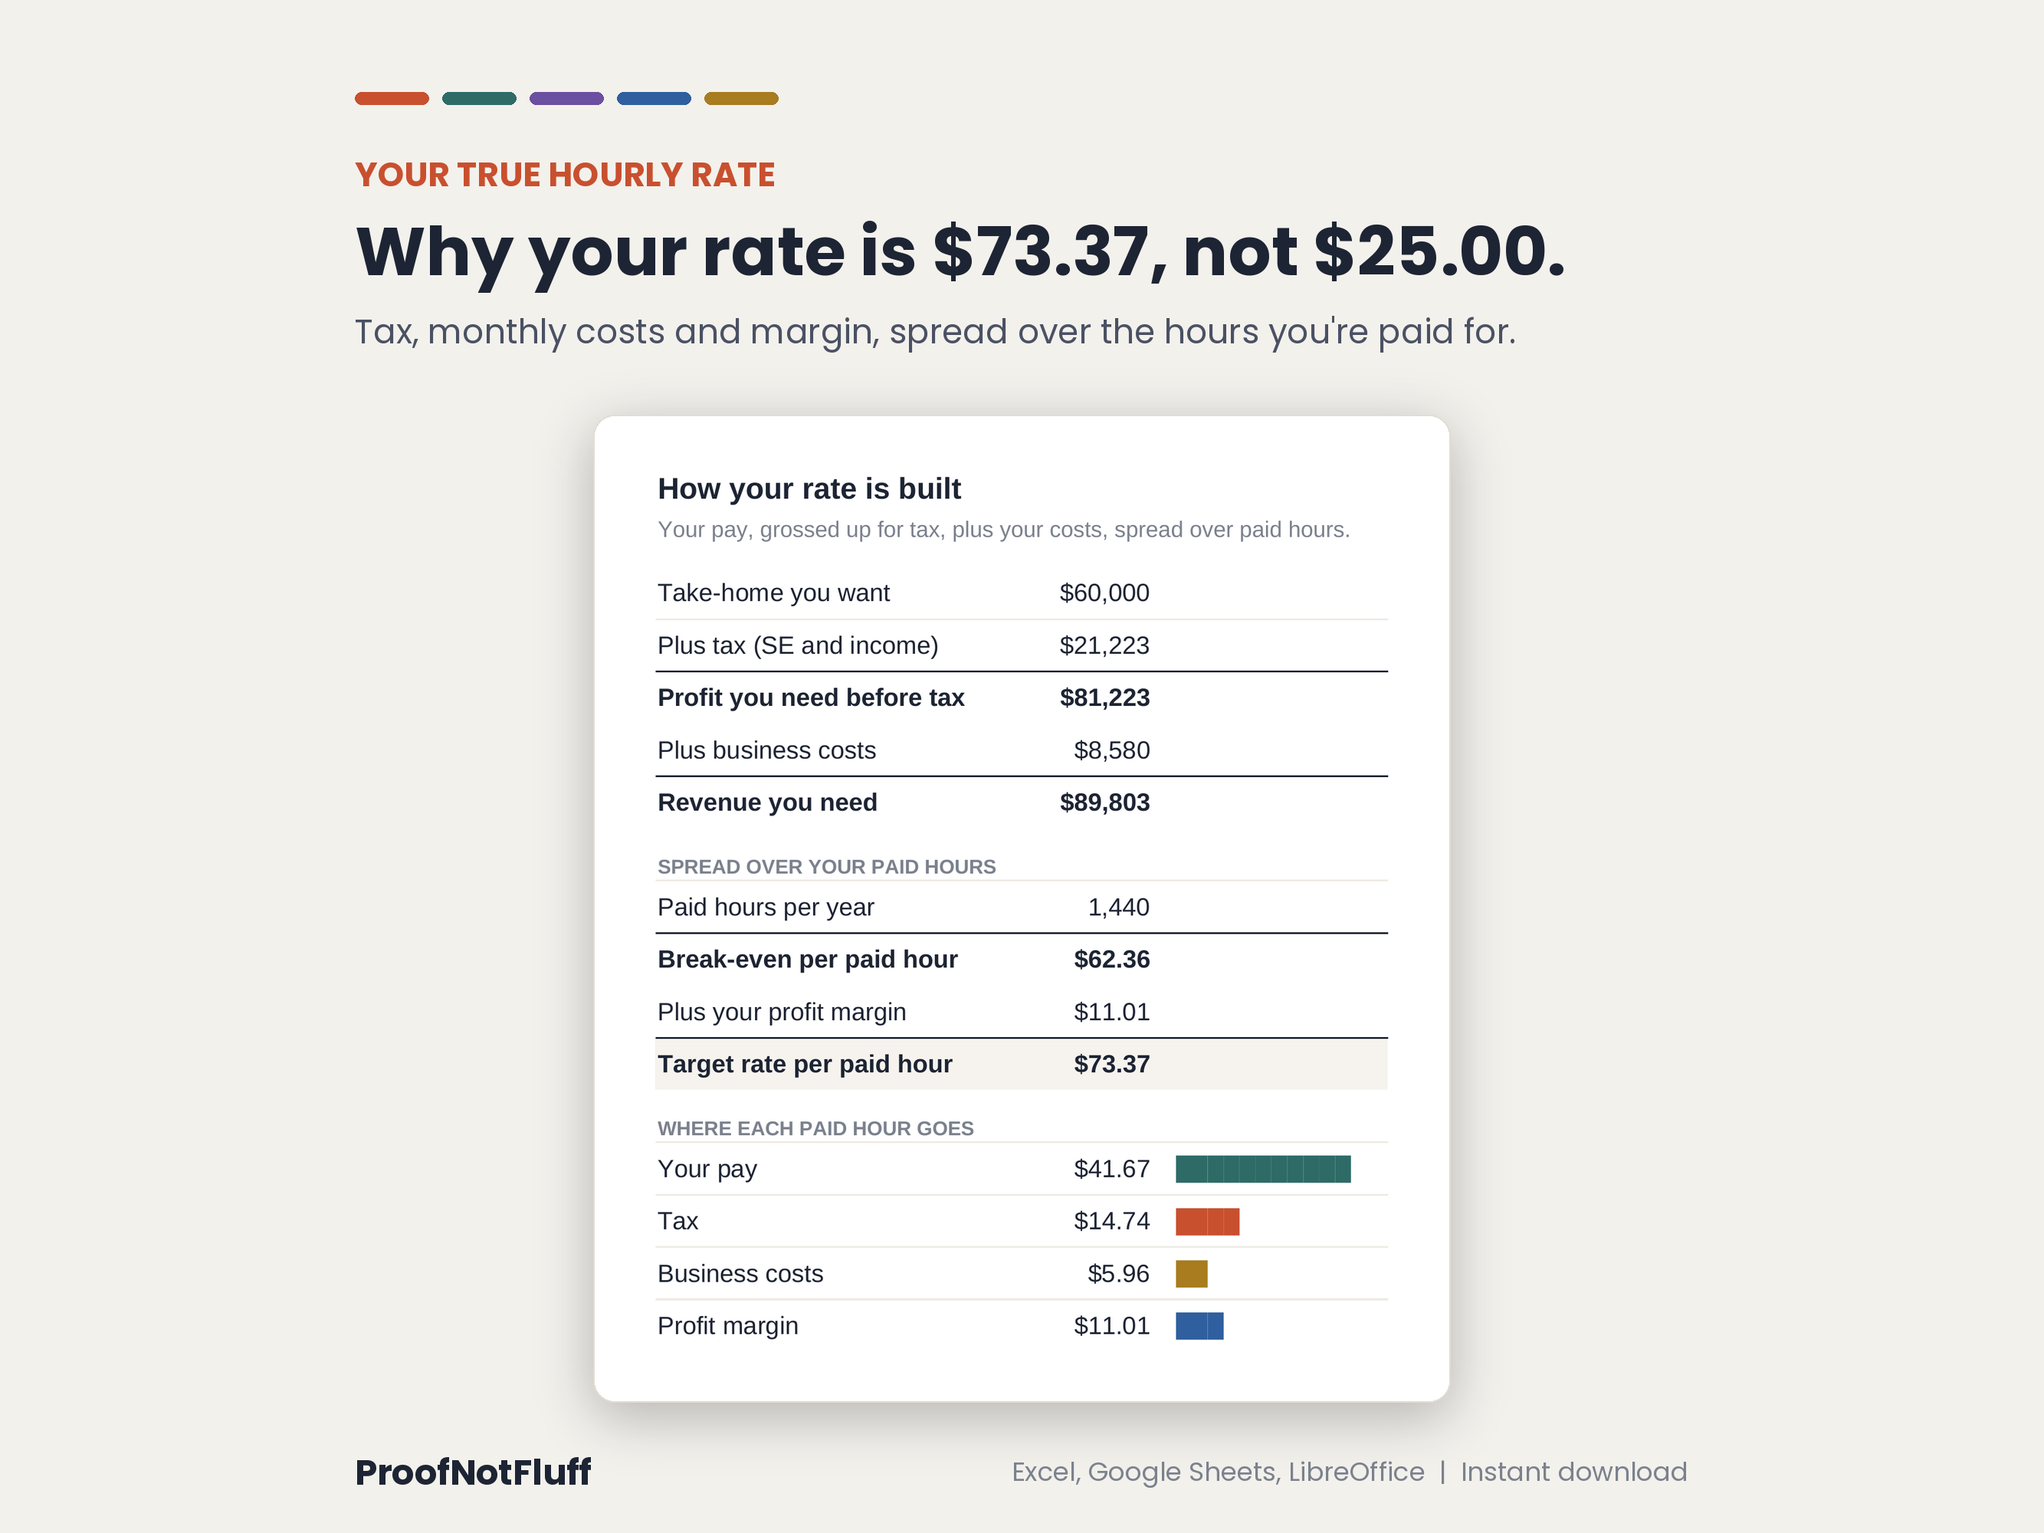
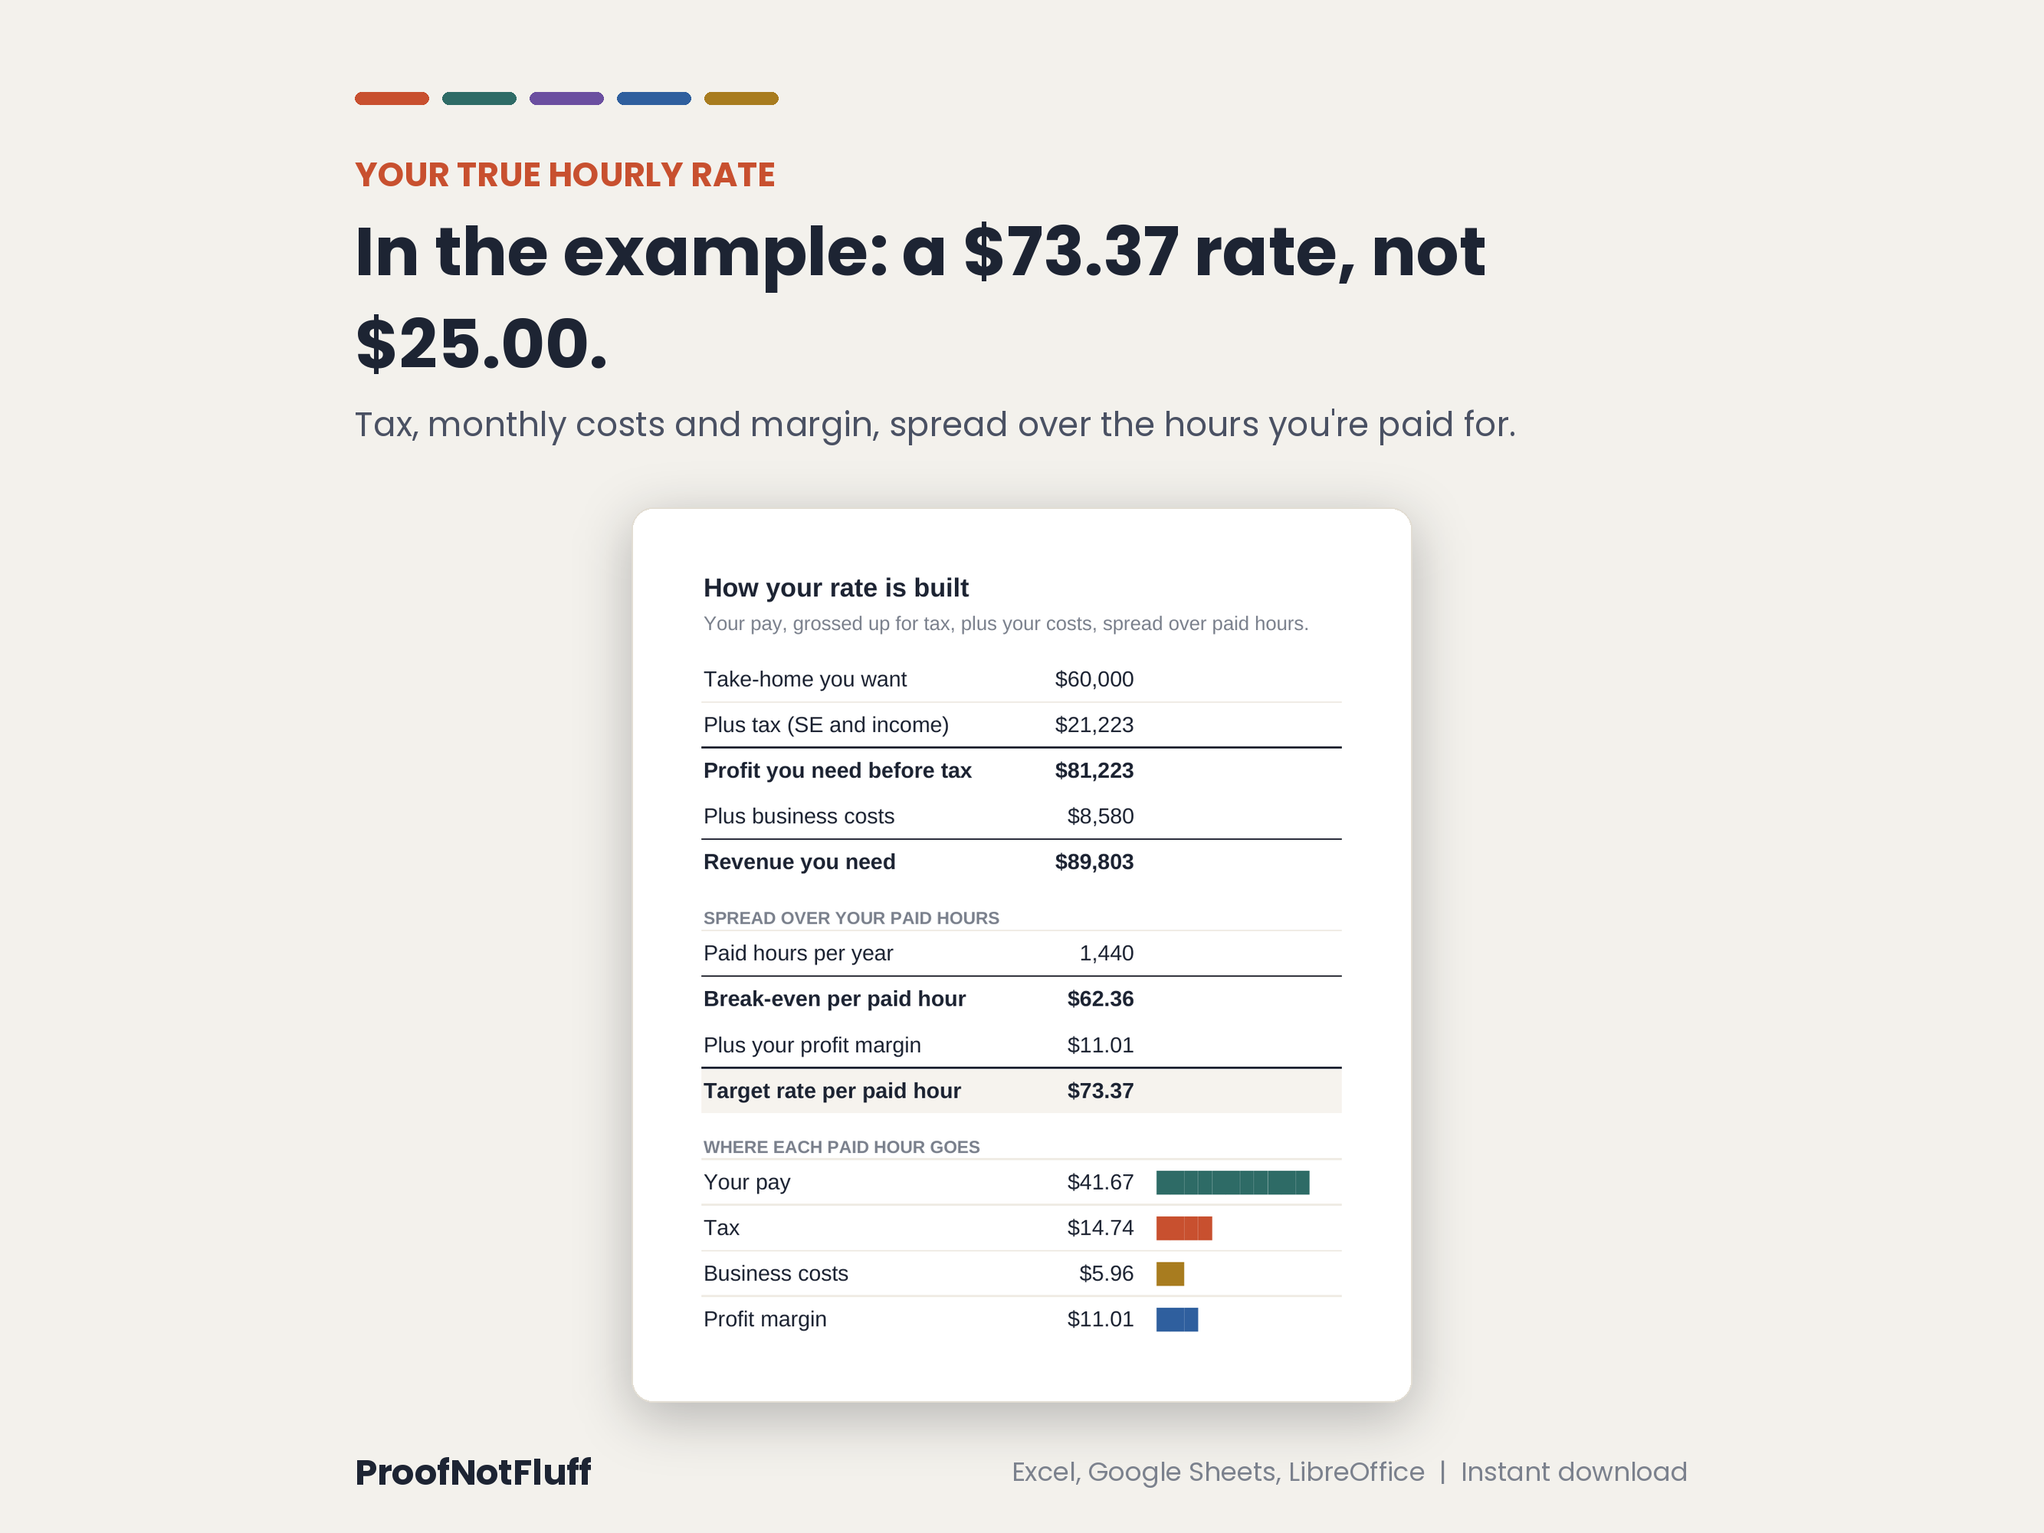
Flagship pack #23 Junk Removal Pricing Calculator: description to LISTING COPY with free page, 9 photos and alt text, video, title and tags staged for Oct 21; repo image 3 replaced with the Legal-cleared render; Fable reviewer PASS after one fix round (SALES FIRST)
Claude-Session: https://claude.ai/code/session_01FH9ou3bQCuXSPSa7gTbrnE

Changed region(s): [[0.1556, 0.124, 0.778, 0.93]]

diff --git a/flagship/23/pack.md b/flagship/23/pack.md
@@ -1,0 +1,122 @@
+# Flagship listing pack: #23 Junk Removal Pricing Calculator (SALES FIRST, Oct 9)
+
+Listing 4590270056, listed Oct 7 by the API lister. Every number below was read from the shipped workbook (shelf asset 99b5f5e2ebb69441632cfd945f96151a, zip sha256 d39bbd1f...4a1c437e, the same zip the listing carries), recalculated with tools/render_xlsx.py on Oct 9: 0 error values. The engine is engines/service-pricing/build_xlsx.py with editions/junk-removal.json; #23 is already v3, so there is no file swap in this pack.
+
+How the shop run applies it: description, photo order, alt text and video in one edit session now. Title and tags wait for Oct 21, when the listing is 14 days old. Nothing here changes the price.
+
+## Research basis (no new Etsy loads this run; the cloud cannot load Etsy search)
+
+- products/23 keyword audit (R&D, Oct 8): every junk removal phrase is under 20 Etsy searches. The reachable demand is "pricing calculator" (795 all-country, about 284 US, KD 12) and "google sheets template" (about 686 US). So the Oct 21 title moves "pricing calculator" to the front and holds "google sheets template" contiguous in the title, since at 22 characters it cannot be a tag. Same pattern as flagship/22.
+- DEMAND FLOOR v2 (ledger, Oct 9) asks the builder to re-check flagship titles before they land. "pricing calculator" is tier B on the all-country count (795, under 1,000), so it qualifies only with a page-1 gap verdict (PASS plus 3 or more page-1 shops under 50 reviews). No gaps/<slug> doc holds that phrase yet and this cloud run cannot load Etsy search. Open item for the R&D lab's next live run: check "pricing calculator" with tools/etsy_page1_check.js before Oct 20 (it decides #20, #22 and #23 together). If it fails, keep the current #23 title and apply only the tags.
+- The idea's reachability note (Oct 6): page-1 small shops for "junk removal pricing" have 2 to 17 reviews and sell at $6.13 to $38.36 with no Bestseller badges; ours is a working calculator that shows the answer. The cover shows $73.37 and $48.37 at first glance, so no new photo 1 is needed.
+
+## 1. Title (apply Oct 21, after the DEMAND FLOOR v2 check above)
+
+Current (keep until Oct 21): Junk Removal Pricing Calculator, Hauling Quote and Estimate Spreadsheet, Excel Google Sheets
+
+Proposed (apply Oct 21): Pricing Calculator for Junk Removal, Hauling Quote and Estimate Spreadsheet, Google Sheets Template, Excel
+
+Why: 14 words, 106 characters, under the 15-word and 140-character limits. "Pricing calculator" sits in the first 40 characters, "junk removal" stays in the first 40 for the buyer who searches the trade, and "google sheets template" becomes contiguous. No word repeats. Judge at 21 and 42 days, never daily.
+
+## 2. Description (apply now)
+
+First 160 characters, what a buyer sees before "read more" (the two sentences below are 157 characters):
+
+Junk removal pricing calculator for owner-operators and small hauling crews: your true hourly rate and a quote for any job. A half truck load quotes at $485.
+
+Full description, paste exactly (no price anywhere in it):
+
+```
+Junk removal pricing calculator for owner-operators and small hauling crews: your true hourly rate and a quote for any job. A half truck load quotes at $485. Pay divided by all hours says $25.00 an hour; the real break-even is $62.36 and the target rate is $73.37, once unpaid hours, monthly costs, self-employment tax and an income tax estimate are counted. Excel and Google Sheets.
+
+WHAT IT DOES
+Type your take-home pay goal, the weeks and hours you really work, the share of those hours customers pay for, and your monthly costs. Your Numbers turns them into a break-even and a target rate per paid hour. Quote Builder prices any job from a dropdown: change hours, crew, supplies and dump fees, or miles for this customer and read the quote rounded up to the next $5, the deposit to collect and the profit inside it. Drive time for everyone on the truck and the vehicle cost per mile go into every quote. Price Sheet prices all 19 example jobs at once, ready to print. Job Tracker logs finished jobs and flags any that came in below your floor.
+
+THE EXAMPLE INSIDE
+A $60,000 take-home goal with 48 weeks of 50 hours, 60% of them paid, is 1,440 paid hours: break-even $62.36, target $73.37 with a 15% margin. A half truck load with two people has a $409.62 price floor and quotes at $485, so a $350 half-load price falls $59.62 short. With a 60-mile round trip instead of 30, the same half load quotes at $660. A full truck load quotes at $720.
+
+WHAT YOU GET (one zip, four files)
+- Junk-Removal-Pricing-Calculator.xlsx: Start Here, Your Numbers, Trade Presets, Quote Builder, Price Sheet, Job Tracker and Terms tabs
+- 19 example jobs: a couch, a mattress set, an upright piano, a fridge, a washer and dryer, 1/8 to full truck loads, garage, basement and estate cleanouts, remodel and yard debris, carpet removal, a hot tub, a shed tear-down and office furniture, plus empty rows for your own
+- Start-Here-Letter.pdf and Start-Here-A4.pdf: the setup guide
+- LICENSE-AND-DISCLAIMER.txt
+
+WORKS IN
+Microsoft Excel for Windows and Mac, Google Sheets (upload the file to Google Drive, open it, then File, Save as Google Sheets) and LibreOffice. Plain formulas only: no macros, no add-ons, no sign-up. Yellow cells are yours to change; every other cell is a locked formula a stray keystroke can't break.
+
+TRY IT FREE FIRST
+Try the free browser version first: search ProofNotFluff junk removal price calculator, or open https://proofnotfluff-a11y.github.io/Proofnotfluff-pins/junk-removal-price-calculator/. It works out your rates and one job at a time on a web page. This download adds the file you keep, the printable price sheet for all 19 jobs, the current-price check, the job tracker, the Start Here guide and the hints in every input cell.
+
+HOW YOU GET IT
+Instant download. Download from a web browser on your computer or phone (Etsy, You, Purchases); the Etsy app can't download digital files.
+
+THE SOURCES INSIDE THE FILE
+Self-employment tax 15.3% (12.4% Social Security plus 2.9% Medicare) on 92.35% of net earnings (IRS Topic 554, page updated Sep 24, 2026). Vehicle cost defaults to the IRS business mileage rate of 76 cents a mile for July 1 to December 31, 2026 (IR-2026-29). Both re-checked on irs.gov Oct 9, 2026; change either to your own figure.
+
+QUESTIONS
+Are the job prices or dump fees market rates? No. The example times, crew sizes and dump fees are starting points. Change them to your real jobs and your local dump's rates and every price follows.
+I run a box truck. Is 76 cents a mile right for me? Maybe not. The IRS rate is set for cars, vans, pickups and panel trucks, and a box truck usually costs more per mile. Type your truck's real cost per mile in Vehicle cost per mile and every quote uses it.
+Can I use it outside the US? Yes for the pricing: type your own tax rate, cost per mile and currency. The tax notes inside cite US rules.
+
+Made with AI assistance and reviewed and tested by the shop owner.
+Information and planning tool only, not legal, tax, financial or other professional advice. Results are estimates based on your inputs.
+This summarizes federal rules as of October 6, 2026 from IRS Topic No. 554 (Self-Employment Tax), Schedule SE, the IRS Standard Mileage Rates page (IR-2026-29) and SSA's Contribution and Benefit Base page. State and local rules can add to or change them.
+Not affiliated with or endorsed by Microsoft or Google.
+Digital download. No physical item ships.
+File problems fixed on request through Etsy messages.
+```
+
+Numbers in the description and where they live in the file: $25.00 (1 Your Numbers H8), $62.36 (I21, C8), $73.37 (C7, I23), $48.37 (H7, on the cover), $60,000 / 48 / 50 / 60% (D14 to D17), 1,440 (D18, I20), 15% margin (I37), 12% income tax estimate (I36), 15.3% and 92.35% (I34, I35, Notes C45), 76 cents (I38, Notes C46); 3 Quote Builder: $485 (C7, I34), $409.62 (I32), 2 people (I22), $350 and -$59.62 (D32, D33); $660 at 60 miles (Start Here C30); 4 Price Sheet: full truck load $720 (F20), also the video's second state. 19 example jobs: 2 Trade Presets rows 11 to 29. Seven tabs listed match the recalculated workbook's sheet names.
+
+Lines kept exactly from the rules: the browser-download line (plan LISTING COPY); the closing block is the live listing's legal block word for word (legal/README.md section 5 plus the High tier line and the brand line, as in flagship/22). The box-truck FAQ answer is the live listing's, shortened by one parenthesis.
+
+## 3. Tags (apply Oct 21, all 13, each 20 characters or fewer)
+
+```
+pricing calculator, junk hauling price, cleanout pricing, dump fee calculator, truck load pricing, estate cleanout, debris removal, haul away price, furniture removal, appliance removal, trash removal price, junk truck business, hauling business
+```
+
+Lengths: pricing calculator (18), junk hauling price (18), cleanout pricing (16), dump fee calculator (19), truck load pricing (18), estate cleanout (15), debris removal (14), haul away price (15), furniture removal (17), appliance removal (17), trash removal price (19), junk truck business (19), hauling business (16).
+
+Why these: "pricing calculator" keeps the one phrase with 100+ US searches as an exact tag too (#20 and #22 carry it as well; it is the shared flagship phrase). The other twelve add words the proposed title lacks (dump, fee, truck, load, cleanout, estate, debris, haul, away, furniture, appliance, trash, business). Dropped from the current set: junk removal, junk removal pricing, junk removal quote, quote calculator, pricing spreadsheet (their words are all in the new title), junk hauling (now junk hauling price), haul away estimate (now haul away price). Overlap with #22's staged tags: "pricing calculator" only.
+
+## 4. Attributes and category
+
+- Keep the category the API lister set from "Like: 4587962930" (Templates, the same node as #13 and #22). Type: Digital files. Who made it: I did. What is it: A finished product. When was it made: keep the listing's current value.
+- Digital content: the "With an AI generator" radio stays as the listing has it.
+- Primary color: Blue (navy). Secondary color: Orange (accent). Occasion, holiday, personalization: none. Renewal automatic. Quantity 999.
+- Materials: Excel workbook, PDF guide, Google Sheets compatible.
+- Digital file: unchanged (Junk-Removal-Pricing-Calculator.zip, the cleared zip).
+
+## 5. Photos: order, photo 1 choice, alt text
+
+Photo 1: products/junk-removal/1-cover.png. It shows the real dashboard in a frame, a short headline, three badges (Excel + Google Sheets, Instant download, 19 junk removal jobs) and the answer at first glance: $73.37 in the dark tile and $48.37 in orange. No replacement first image is needed.
+
+Repo fix this run: products/junk-removal/3-shot.png was the pre-clearance render ("Why your rate is $73.37, not $25.00."). The Legal desk re-rendered it on Oct 7 as "In the example: a $73.37 rate, not $25.00." (shelf asset 96b3329dd4e65133af3966d40036294b) and only the shelf got the new file. The cleared version is committed at the same path in this pack's commit and pushed to main, so the capital-P raw URL serves it. The other 8 repo images match the shelf assets byte for byte (sha256 checked Oct 9).
+
+Order (repo products/junk-removal, capital-P raw URLs, numeric file-name order): 1-cover, 2-shot, 3-shot, 4-steps, 5-shot, 6-list, 7-shot, 8-list, 9-inside. SALES FIRST asks for 10; the kit has 9. A tenth is worth a later run (the Job Tracker tiles: $1,125 logged, 1 job below floor) but is not needed for this edit. If the listing's current photos already match these 9 in this order, re-upload photo 3 only if it shows the old "Why your rate is" headline, then change the alt text.
+
+Alt text (Etsy's field, 250 characters max each):
+
+1. 1-cover.png: Junk removal pricing calculator for Excel and Google Sheets. Dashboard showing a target rate of $73.37 per paid hour and a $48.37 gap against the usual pay-divided-by-hours guess.
+2. 2-shot.png: Quote Builder: a half truck load quotes at $485 with $75.38 profit and a $121.25 deposit, $77.44 per hour worked with drive time included.
+3. 3-shot.png: How your rate is built: $60,000 take-home plus $21,223 tax plus $8,580 costs is $89,803 over 1,440 paid hours, a $62.36 break-even and $73.37 target rate.
+4. 4-steps.png: How it works in three steps: type your pay goal, hours and costs; pick a junk removal job and change crew, supplies and dump fees, or miles; read your quote, deposit and profit.
+5. 5-shot.png: Price sheet for 19 junk removal jobs, from a $275 minimum load and $315 couch up to a $3,895 three-bedroom estate cleanout, each with its price floor.
+6. 6-list.png: Is this for you: made for junk removal owner-operators and 2 to 3 person hauling crews; not for dumpster rental pricing, payroll or tax filing.
+7. 7-shot.png: Check your current price: a $350 half load price shows -$59.62 profit and a warning that it does not cover your pay goal and costs.
+8. 8-list.png: What you get and how to download: one workbook with five working tabs, a Start Here PDF in Letter and A4, works in Excel, Google Sheets and LibreOffice, download from a web browser.
+9. 9-inside.png: What is inside: target and break-even rate, quotes with per-customer changes, a price sheet, a job tracker, 19 jobs from couches to cleanouts, Start Here PDF.
+
+Video slot: repo listing-videos/junk-removal.mp4 (11.4 s, sha256 057ae324...055319e61, the same file as the cleared shelf video; frames checked Oct 9: $485 half truck load, $720 full truck load, $895 full load at 60 miles, answer visible from frame one). Replace any older video.
+
+## 6. Notes for the shop run and the COO
+
+- The free page URL in the description follows the SALES FIRST line (Oct 8), as in flagship/20 and flagship/22. If a listing review or Search Visibility flag names the link, drop the URL and keep the "search ProofNotFluff junk removal price calculator" sentence.
+- The free page (docs/junk-removal-price-calculator) is cleared by the Legal desk (commit de6c619), has no noindex tag, and its CTA already points at listing 4590270056; checked from the repo file (the cloud proxy blocks github.io).
+- Two 60-mile numbers exist and both are true: the half load at 60 miles is $660 (Start Here, pin fact 3, this description) and the full load at 60 miles is $895 (video state 3). The description names only the half-load one.
+- The listing video predates the Oct 9 end-card rule (opaque end card, cta.what); a later video pass can re-render it from editions/junk-removal.video.json. Not needed for this edit.
+
+## 7. Review record (Oct 9)
+
+Reviewer subagent on Fable, Oct 9: FIX with 1 high (the cleared image 3 was in the working tree but not yet committed) and 2 low (the 157-character count named one sentence; "dump fees" is not its own Quote Builder cell, it sits inside Supplies). All three fixed in this file and commit as given. Every number traced to the recalculated workbook, the nine images, the video frames and the free page; zip holds the four named files; sheets protected, every input cell carries a hint; title, tags, required lines, legal block, alt text lengths, no price, no em dashes, no banned words: PASS. Verdict after the fix round: PASS.
